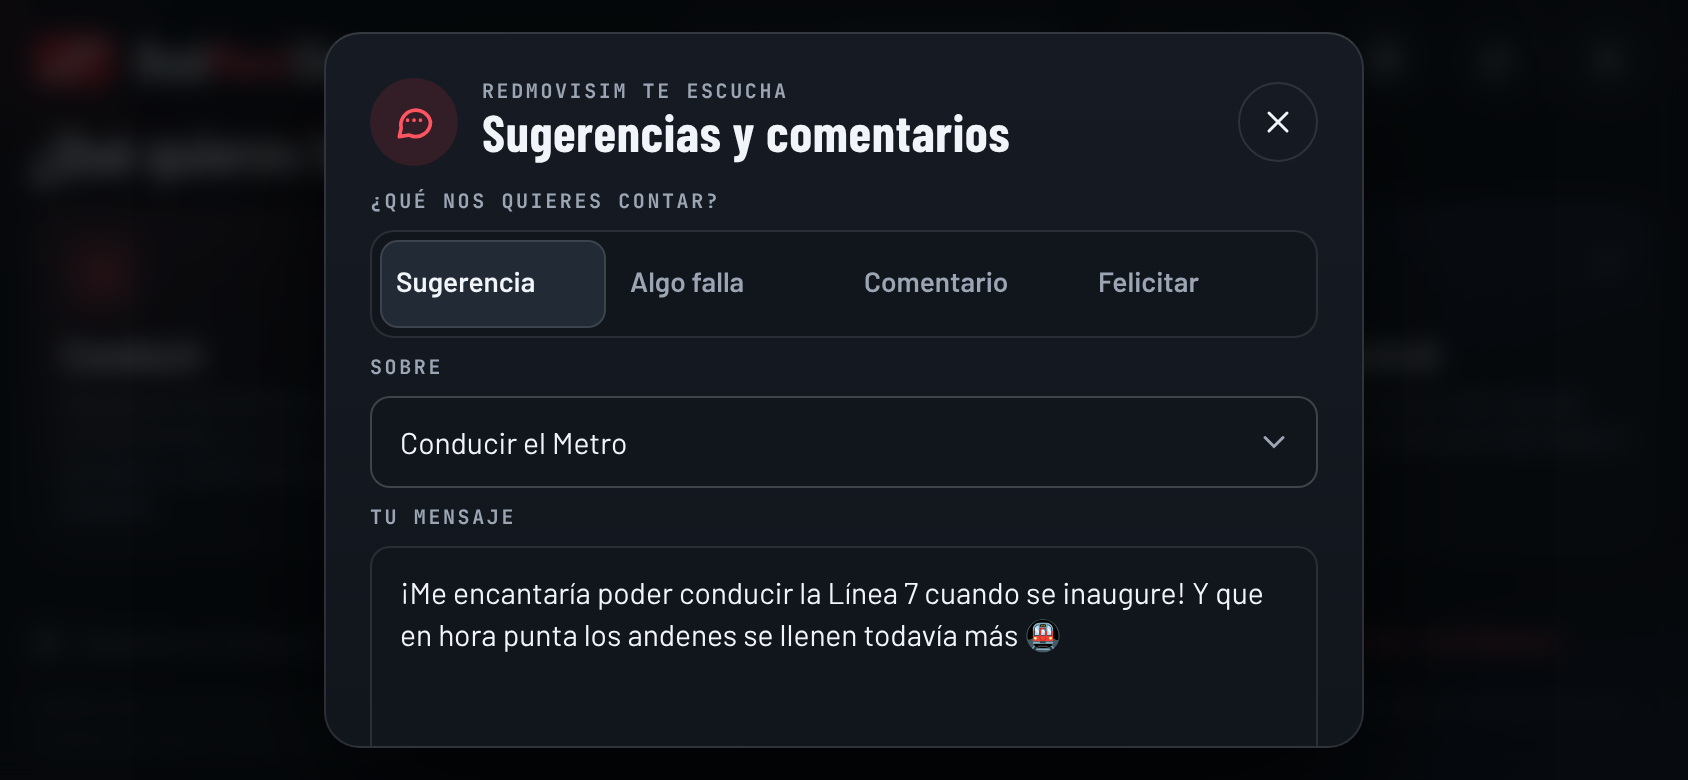
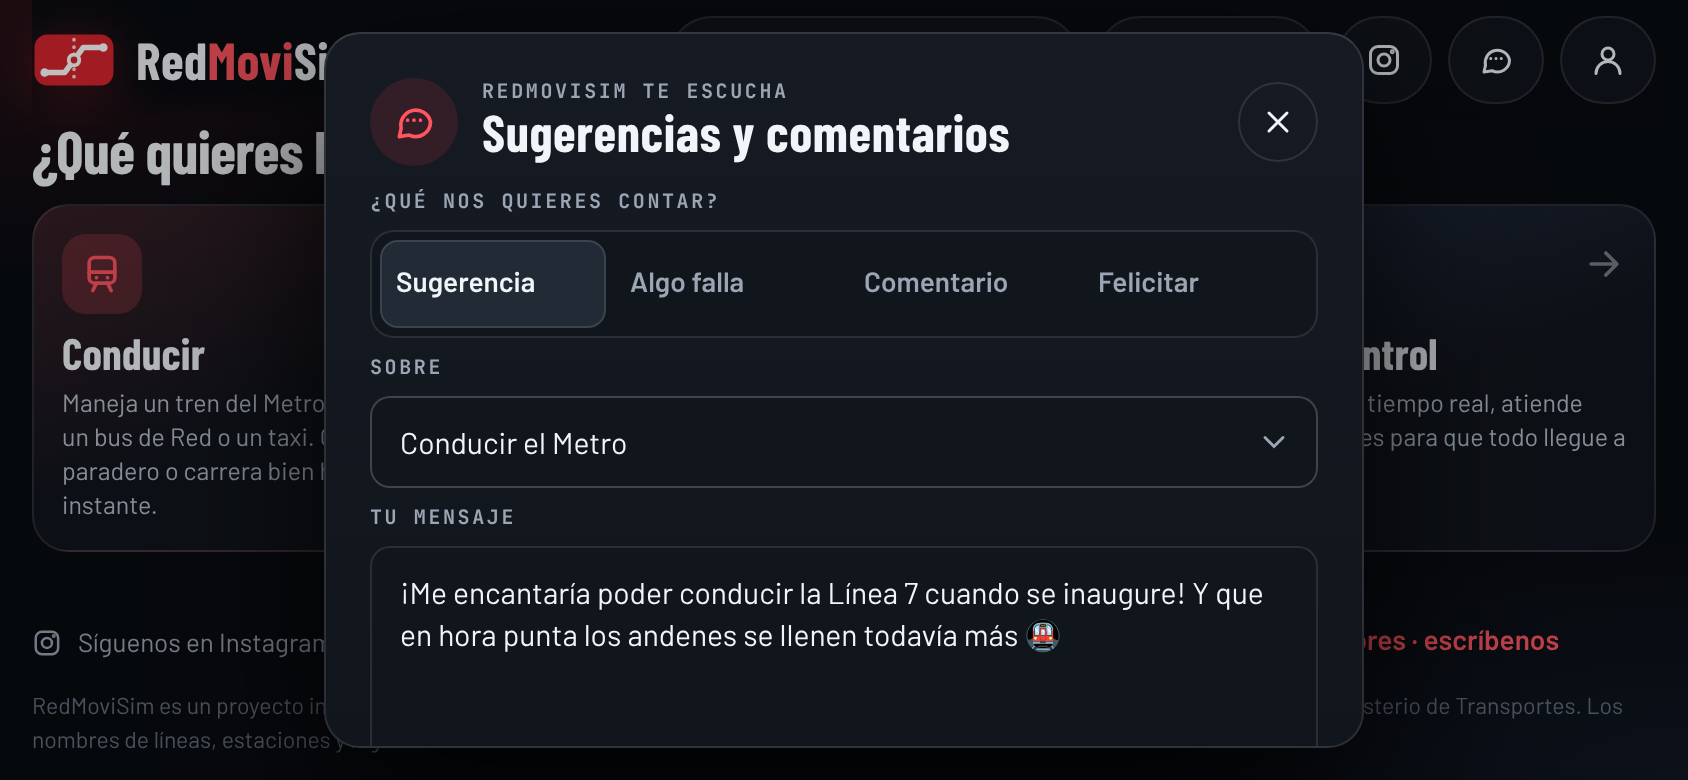
2.13.3 · Post «RedMoviSim te escucha» en versión clara, con capturas más luminosas
Claude-Session: https://claude.ai/code/session_01XEKfghRQamhTXoc1D2DU54

diff --git a/post-sugerencias/plantilla.html b/post-sugerencias/plantilla.html
@@ -38,6 +38,26 @@ body.h .txt{grid-area:txt;align-items:flex-start;align-self:end}
 body.h .foot{grid-area:foot;align-items:flex-start;align-self:start}
 body.h .devices{grid-area:dev;align-self:center}
 body.h .chips{justify-content:flex-start}
+
+/* Versión clara: fondo cálido, textos oscuros y las pantallas del juego resaltan encima */
+body{color:#111722;background:radial-gradient(ellipse at 50% 25%,#ffffff 0%,#fff3e6 45%,#ffd9d2 100%)}
+body::before{content:"";position:absolute;inset:0;background:radial-gradient(circle at 12% 88%,rgba(244,180,0,.28),transparent 40%),radial-gradient(circle at 90% 10%,rgba(215,38,46,.16),transparent 38%)}
+.wrap{z-index:1}
+h1{color:#111722}
+.badge{color:#fff;box-shadow:0 6px 18px rgba(215,38,46,.3)}
+h1 em{color:#d7262e}
+h1 small{color:#5a6472}
+.monitor .scr{border-color:#111722;box-shadow:0 24px 60px rgba(17,23,34,.35)}
+.monitor .neck{background:linear-gradient(#2a3346,#111722)}
+.monitor .base{background:#111722}
+.phone{border-color:#111722;box-shadow:0 0 0 calc(var(--dw) * .006) #d7262e,-14px 22px 60px rgba(17,23,34,.4)}
+.tag{background:#f4b400;border-color:#f4b400;color:#111722;box-shadow:0 6px 18px rgba(17,23,34,.25)}
+.cloud{background:#d7262e;box-shadow:0 0 0 calc(var(--dw) * .014) rgba(215,38,46,.22),0 14px 40px rgba(17,23,34,.3)}
+.cloud svg path{stroke:#fff}
+.chip{background:#fff;border-color:rgba(17,23,34,.12);color:#111722;box-shadow:0 4px 14px rgba(17,23,34,.08)}
+.bar{background:#111722;color:#fff;box-shadow:0 0 0 8px rgba(244,180,0,.45),0 14px 40px rgba(17,23,34,.3)}
+.bar svg{stroke:#fff}
+.bar b span{color:#ff5a62}
 </style></head><body>
 <div class="wrap">
  <div class="txt">
@@ -60,7 +80,7 @@ body.h .chips{justify-content:flex-start}
   <span class="chip">💡 Ideas</span><span class="chip">🐞 Errores</span><span class="chip">💬 Comentarios</span>
   <span class="chip">⭐ Tu nota</span><span class="chip">📩 Leemos cada mensaje</span>
  </div>
- <div class="bar"><svg viewBox="0 0 24 24" fill="none" stroke="#111722" stroke-width="2.6" stroke-linecap="round"><circle cx="10" cy="10" r="7"/><path d="M15.5 15.5L21 21"/></svg><b>redmovisim<span>.cl</span></b></div>
+ <div class="bar"><svg viewBox="0 0 24 24" fill="none" stroke="#fff" stroke-width="2.6" stroke-linecap="round"><circle cx="10" cy="10" r="7"/><path d="M15.5 15.5L21 21"/></svg><b>redmovisim<span>.cl</span></b></div>
  </div>
 </div>
 </body></html>

diff --git a/index.html b/index.html
@@ -95,7 +95,7 @@
       <div class="home-brand">
         <img class="home-logo" src="logo.svg" alt="">
         <h1>Red<span>Movi</span>Sim</h1>
-        <span class="start-ver">v2.13.2</span>
+        <span class="start-ver">v2.13.3</span>
       </div>
       <div class="home-bar-tools">
         <button class="home-clock" id="clockNow" type="button" aria-live="polite" title="Ver las tarifas según el horario">

diff --git a/sw.js b/sw.js
@@ -14,7 +14,7 @@
    sin conexión.
    ========================================================================== */
 
-const CACHE = "metrosim-v2.13.2";
+const CACHE = "metrosim-v2.13.3";
 const CDN = ["cdn.jsdelivr.net", "unpkg.com"];
 
 /** Lo mínimo para que la portada abra sin conexión aunque no se haya jugado. */

diff --git a/js/config.js b/js/config.js
@@ -26,7 +26,7 @@
    y curva de demanda horaria de un día real de Santiago.
    ========================================================================== */
 
-export const VERSION = "2.13.2";
+export const VERSION = "2.13.3";
 
 /* ---------- Colores oficiales de las líneas ---------- */
 export const LINE_COLORS = {

diff --git a/README.md b/README.md
@@ -153,6 +153,8 @@ capturas del formulario en PC y en el celular acostado, y el texto listo en `tex
 
 **2.13.2** · El post suma la medida vertical de Instagram (`post-vertical.png`, 1080×1350), la que más ocupa en el feed.
 
+**2.13.3** · El post pasa a una versión clara (fondo cálido, títulos oscuros y rojos) y las capturas muestran la portada detrás de la ventana, sin el velo oscuro.
+
 ## Versión 2.12 · Tienda renovada
 
 La **Tienda RedMovi** (`js/shopUI.js`) ahora ayuda a decidir en qué gastar y a juntar para lo que falta:
